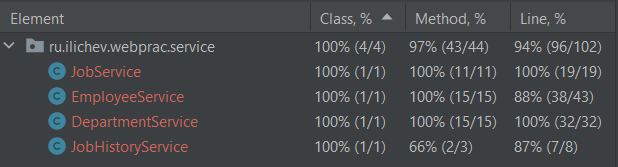
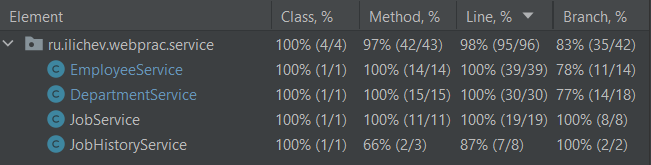
Update report for second stage: coverage improved

diff --git a/docs/SECONDSTAGE.md b/docs/SECONDSTAGE.md
@@ -32,3 +32,6 @@
 ![ServiceCoverage](ServiceCoverage.png)
 
 Непокрытым остался лишь тривиальный save-метод.
+
+Непокрытые `if` операторы появляются в результате нарушения контракта `@NonNull`:
+![nonNullTracing](nonNullTracing.png)
